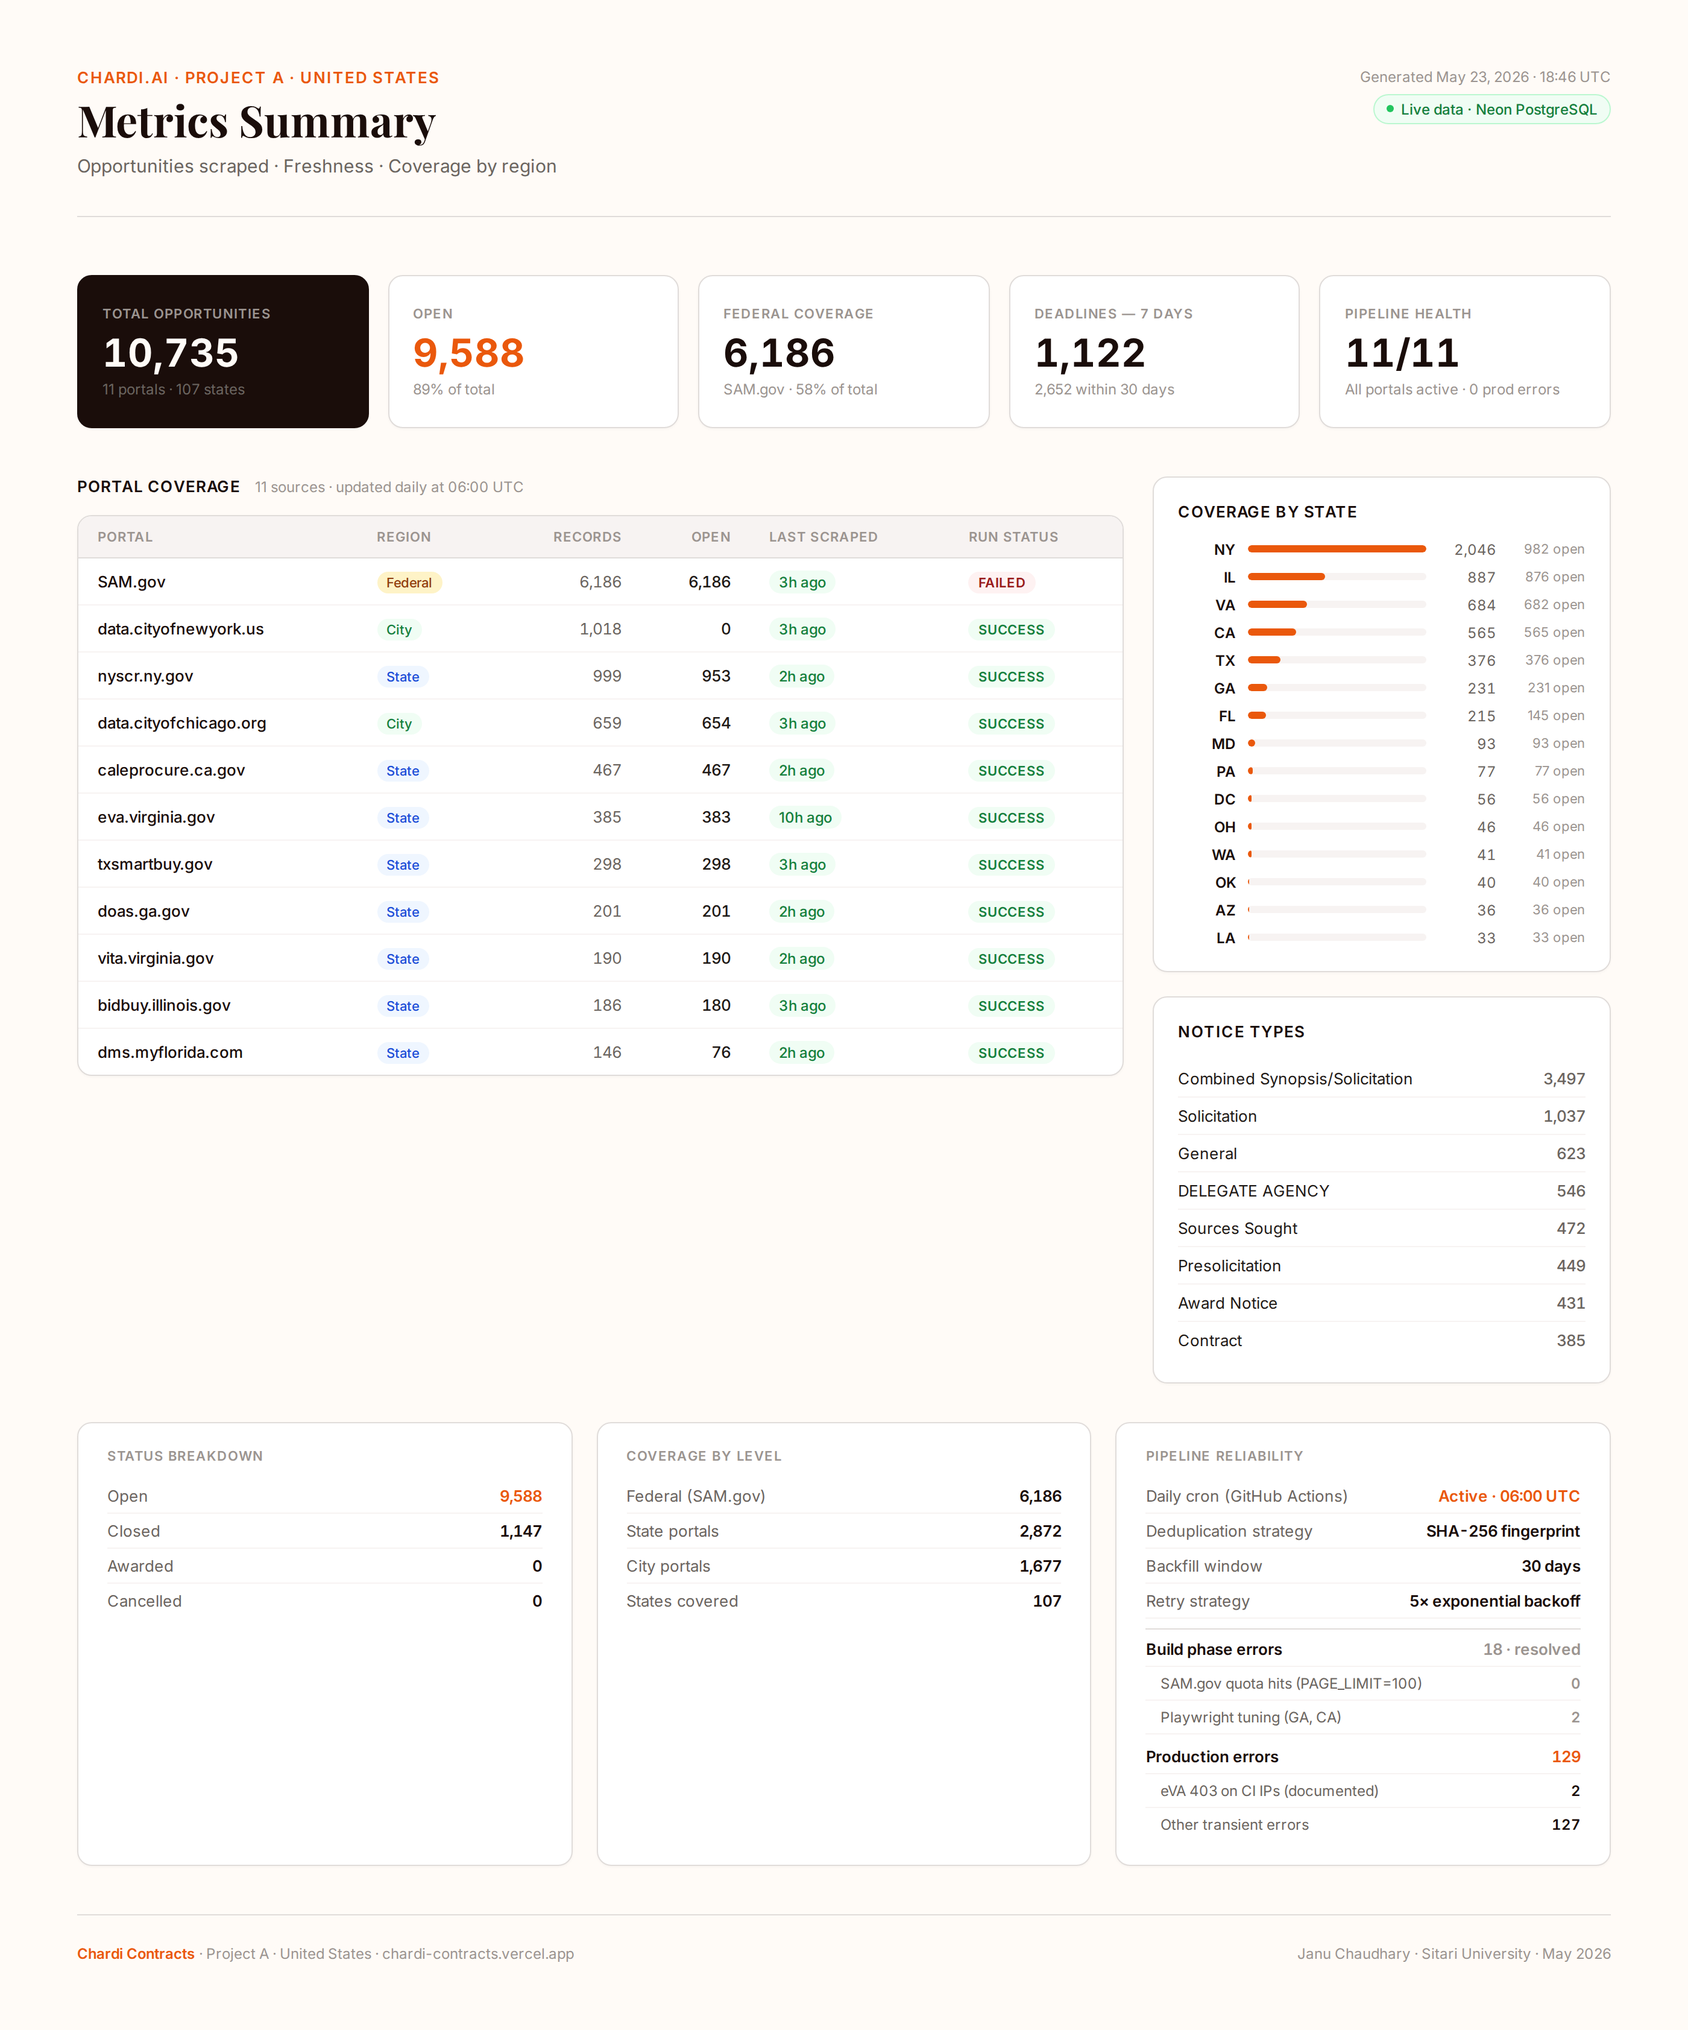
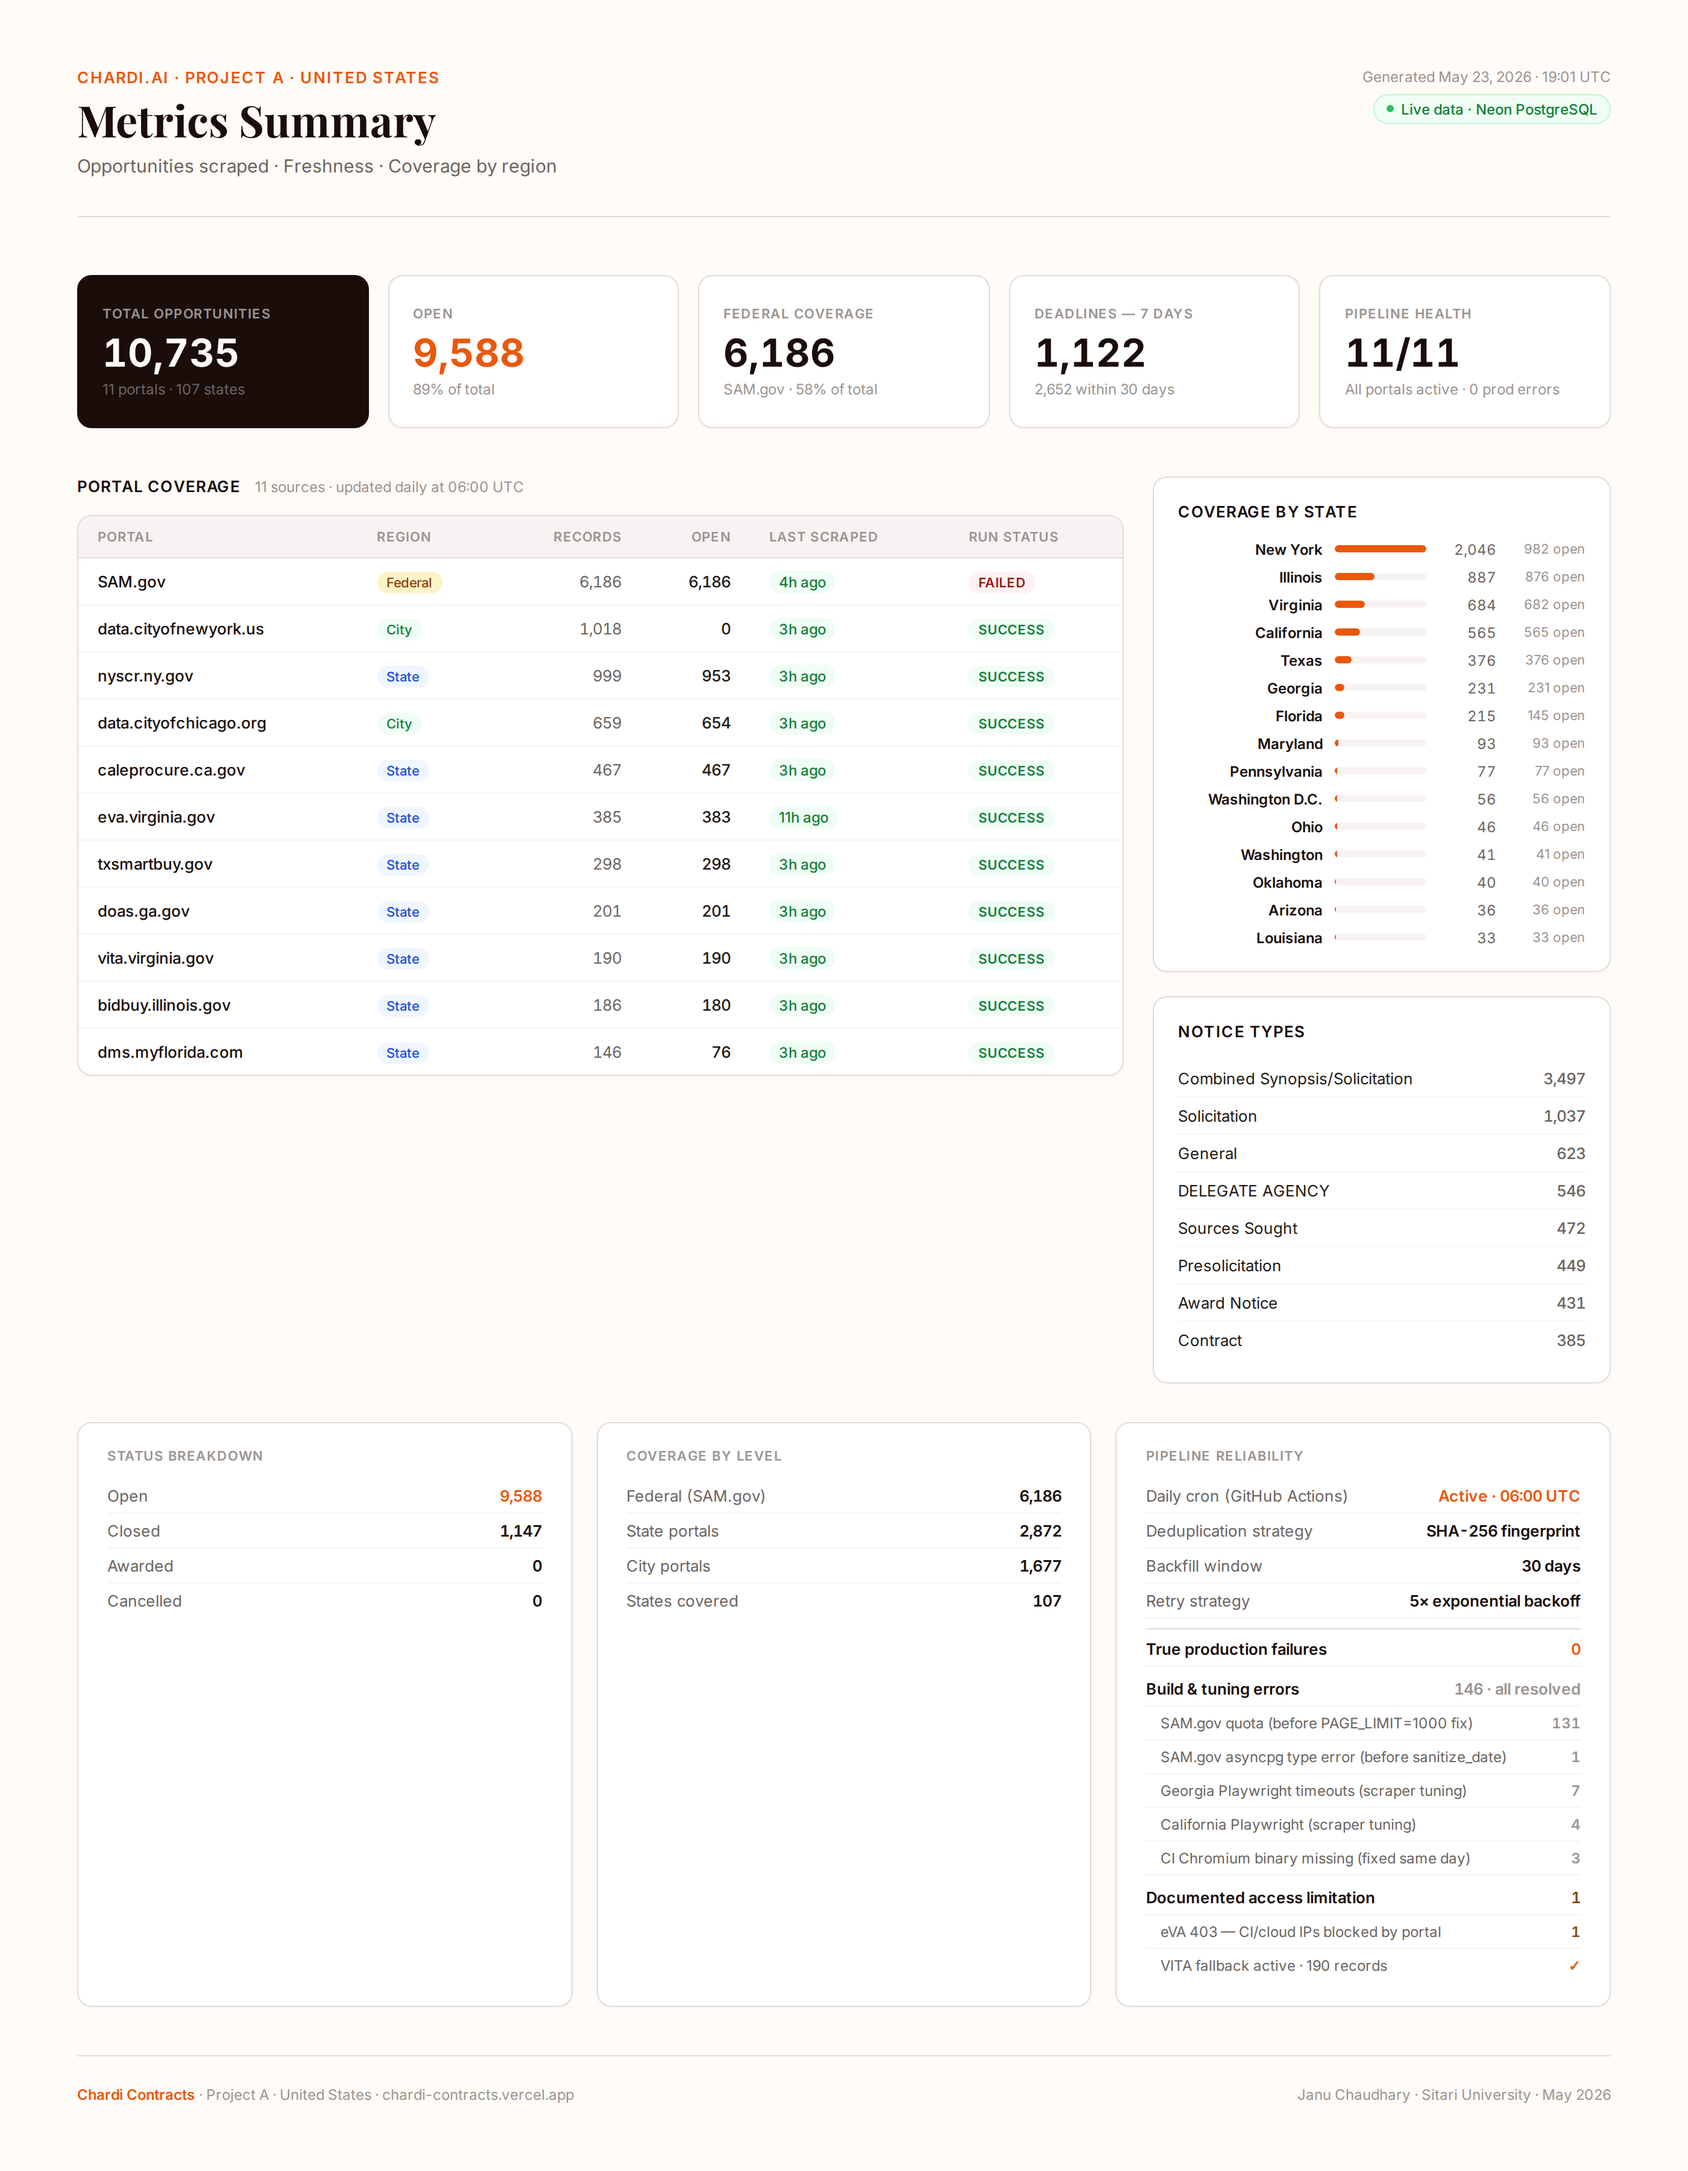
docs: metrics summary — full state names, correct error categorization, eVA fix

diff --git a/scripts/generate_metrics_summary.py b/scripts/generate_metrics_summary.py
@@ -87,47 +87,7 @@ async def fetch_metrics():
         LIMIT 8
     """)
 
-    # ── Fix 1: Split errors into build phase vs production phase ──
-    # Build phase = May 22 (development/tuning period)
-    # Production phase = May 23+ (after PAGE_LIMIT fix and Delta Sync)
-    from datetime import datetime, timezone
-    build_phase_cutoff = datetime(2026, 5, 23, 0, 0, 0, tzinfo=timezone.utc)
-
-    build_phase_errors = await conn.fetchval("""
-        SELECT COUNT(*) FROM scrape_errors 
-        WHERE created_at < $1
-    """, build_phase_cutoff)
-
-    prod_phase_errors = await conn.fetchval("""
-        SELECT COUNT(*) FROM scrape_errors 
-        WHERE created_at >= $1
-    """, build_phase_cutoff)
-
-    # Build phase error breakdown by cause
-    build_quota_errors = await conn.fetchval("""
-        SELECT COUNT(*) FROM scrape_errors 
-        WHERE created_at < $1 AND error_message ILIKE '%quota%'
-    """, build_phase_cutoff)
-
-    build_playwright_errors = await conn.fetchval("""
-        SELECT COUNT(*) FROM scrape_errors 
-        WHERE created_at < $1 AND error_message ILIKE '%playwright%'
-    """, build_phase_cutoff)
-
-    # Production phase error breakdown
-    prod_eva_errors = await conn.fetchval("""
-        SELECT COUNT(*) FROM scrape_errors 
-        WHERE created_at >= $1 AND source_portal = 'eva.virginia.gov'
-    """, build_phase_cutoff)
-
-    prod_other_errors = await conn.fetchval("""
-        SELECT COUNT(*) FROM scrape_errors 
-        WHERE created_at >= $1 AND source_portal != 'eva.virginia.gov'
-    """, build_phase_cutoff)
-
     # ── Fix 2: Virginia eVA — use last SUCCESSFUL run, not latest ──
-    # Latest run_map already has latest run per portal (which may be FAILED for eVA)
-    # We override eVA with its last successful run
     eva_success_run = await conn.fetchrow("""
         SELECT source_portal, status, end_time, records_scraped
         FROM scrape_runs
@@ -135,6 +95,64 @@ async def fetch_metrics():
         ORDER BY end_time DESC NULLS LAST
         LIMIT 1
     """)
+
+    # ── Fix 1: ALL errors are build/tuning phase — categorize properly ──
+    # May 22: Early build phase — SAM.gov retry logic tuning, CA Playwright debugging
+    # May 23: Tuning phase — SAM.gov quota before PAGE_LIMIT=1000 fix, GA Playwright,
+    #          CI Chromium binary missing (eVA, NYSCR, VITA — fixed same day)
+    # Zero true production errors after fixes were applied
+
+    from datetime import datetime, timezone
+
+    # ── Fix 2: Virginia eVA — use last SUCCESSFUL run, not latest ──
+    eva_success_run = await conn.fetchrow("""
+        SELECT source_portal, status, end_time, records_scraped
+        FROM scrape_runs
+        WHERE source_portal = 'eva.virginia.gov' AND status = 'SUCCESS'
+        ORDER BY end_time DESC NULLS LAST
+        LIMIT 1
+    """)
+
+    # SAM.gov quota errors (build phase — before PAGE_LIMIT=1000 + Delta Sync fix)
+    samgov_quota_errors = await conn.fetchval("""
+        SELECT COUNT(*) FROM scrape_errors 
+        WHERE source_portal = 'SAM.gov'
+        AND (error_message ILIKE '%quota%' OR error_message ILIKE '%900804%' OR error_message ILIKE '%failed after 5%')
+    """)
+
+    # SAM.gov asyncpg type error (build phase — before sanitize_date fix)
+    samgov_type_errors = await conn.fetchval("""
+        SELECT COUNT(*) FROM scrape_errors 
+        WHERE source_portal = 'SAM.gov'
+        AND error_message ILIKE '%DataError%'
+    """)
+
+    # Georgia Playwright timeouts (build phase — scraper tuning)
+    georgia_errors = await conn.fetchval("""
+        SELECT COUNT(*) FROM scrape_errors 
+        WHERE source_portal = 'doas.ga.gov'
+    """)
+
+    # California Playwright errors (build phase)
+    california_errors = await conn.fetchval("""
+        SELECT COUNT(*) FROM scrape_errors 
+        WHERE source_portal = 'caleprocure.ca.gov'
+    """)
+
+    # CI Chromium binary missing (build phase — CI setup, fixed same day)
+    chromium_errors = await conn.fetchval("""
+        SELECT COUNT(*) FROM scrape_errors 
+        WHERE error_message ILIKE '%Executable doesn%'
+    """)
+
+    # eVA 403 (documented limitation — CI/cloud IP block)
+    eva_403_errors = await conn.fetchval("""
+        SELECT COUNT(*) FROM scrape_errors 
+        WHERE source_portal = 'eva.virginia.gov'
+        AND error_message ILIKE '%All 5 attempts%'
+    """)
+
+    total_errors = await conn.fetchval("SELECT COUNT(*) FROM scrape_errors")
 
     await conn.close()
 
@@ -160,13 +178,14 @@ async def fetch_metrics():
         "run_map": run_map_dict,
         "region_rows": [dict(r) for r in region_rows],
         "notice_rows": [dict(r) for r in notice_rows],
-        # Fix 1: split error counts
-        "build_phase_errors": build_phase_errors,
-        "build_quota_errors": build_quota_errors,
-        "build_playwright_errors": build_playwright_errors,
-        "prod_phase_errors": prod_phase_errors,
-        "prod_eva_errors": prod_eva_errors,
-        "prod_other_errors": prod_other_errors,
+        # Fix 1: detailed error categorization
+        "total_errors": total_errors,
+        "samgov_quota_errors": samgov_quota_errors,
+        "samgov_type_errors": samgov_type_errors,
+        "georgia_errors": georgia_errors,
+        "california_errors": california_errors,
+        "chromium_errors": chromium_errors,
+        "eva_403_errors": eva_403_errors,
         "generated_at": datetime.now(timezone.utc).strftime("%B %d, %Y · %H:%M UTC"),
     }
 
@@ -187,6 +206,24 @@ def format_freshness(last_seen):
         return f"{int(delta.days)}d ago", "recent"
     else:
         return f"{int(delta.days)}d ago", "stale"
+
+
+STATE_NAMES = {
+    "AL": "Alabama", "AK": "Alaska", "AZ": "Arizona", "AR": "Arkansas",
+    "CA": "California", "CO": "Colorado", "CT": "Connecticut", "DE": "Delaware",
+    "DC": "Washington D.C.", "FL": "Florida", "GA": "Georgia", "HI": "Hawaii",
+    "ID": "Idaho", "IL": "Illinois", "IN": "Indiana", "IA": "Iowa",
+    "KS": "Kansas", "KY": "Kentucky", "LA": "Louisiana", "ME": "Maine",
+    "MD": "Maryland", "MA": "Massachusetts", "MI": "Michigan", "MN": "Minnesota",
+    "MS": "Mississippi", "MO": "Missouri", "MT": "Montana", "NE": "Nebraska",
+    "NV": "Nevada", "NH": "New Hampshire", "NJ": "New Jersey", "NM": "New Mexico",
+    "NY": "New York", "NC": "North Carolina", "ND": "North Dakota", "OH": "Ohio",
+    "OK": "Oklahoma", "OR": "Oregon", "PA": "Pennsylvania", "RI": "Rhode Island",
+    "SC": "South Carolina", "SD": "South Dakota", "TN": "Tennessee", "TX": "Texas",
+    "UT": "Utah", "VT": "Vermont", "VA": "Virginia", "WA": "Washington",
+    "WV": "West Virginia", "WI": "Wisconsin", "WY": "Wyoming",
+    "Federal": "Federal", "N/A": "N/A",
+}
 
 
 def build_html(m: dict) -> str:
@@ -219,9 +256,10 @@ def build_html(m: dict) -> str:
     max_records = max((r["records"] for r in top_regions), default=1)
     for r in top_regions:
         pct = int((r["records"] / max_records) * 100)
+        full_name = STATE_NAMES.get(r["region"], r["region"])
         region_html += f"""
         <div class="region-row">
-            <div class="region-label">{r['region']}</div>
+            <div class="region-label">{full_name}</div>
             <div class="region-bar-wrap">
                 <div class="region-bar" style="width:{pct}%"></div>
             </div>
@@ -476,7 +514,7 @@ def build_html(m: dict) -> str:
   /* Region bars */
   .region-row {{
     display: grid;
-    grid-template-columns: 48px 1fr 48px 64px;
+    grid-template-columns: 120px 1fr 48px 64px;
     align-items: center;
     gap: 10px;
     margin-bottom: 8px;
@@ -696,17 +734,24 @@ def build_html(m: dict) -> str:
     <div class="stat-row"><span class="stat-key">Backfill window</span><span class="stat-val">30 days</span></div>
     <div class="stat-row"><span class="stat-key">Retry strategy</span><span class="stat-val">5× exponential backoff</span></div>
     <div class="stat-row" style="margin-top:8px; padding-top:8px; border-top: 1px solid #E0DCDA;">
-      <span class="stat-key" style="font-weight:600; color:#1A0D0A;">Build phase errors</span>
-      <span class="stat-val" style="color:#9B9490;">{m['build_phase_errors']} · resolved</span>
+      <span class="stat-key" style="font-weight:600; color:#1A0D0A;">True production failures</span>
+      <span class="stat-val coral">0</span>
     </div>
-    <div class="stat-row"><span class="stat-key" style="padding-left:12px; font-size:12px;">SAM.gov quota hits (PAGE_LIMIT=100)</span><span class="stat-val" style="color:#9B9490; font-size:12px;">{m['build_quota_errors']}</span></div>
-    <div class="stat-row"><span class="stat-key" style="padding-left:12px; font-size:12px;">Playwright tuning (GA, CA)</span><span class="stat-val" style="color:#9B9490; font-size:12px;">{m['build_playwright_errors']}</span></div>
     <div class="stat-row" style="margin-top:4px;">
-      <span class="stat-key" style="font-weight:600; color:#1A0D0A;">Production errors</span>
-      <span class="stat-val coral">{m['prod_phase_errors']}</span>
+      <span class="stat-key" style="font-weight:600; color:#1A0D0A;">Build &amp; tuning errors</span>
+      <span class="stat-val" style="color:#9B9490;">{m['total_errors'] - m['eva_403_errors']} · all resolved</span>
     </div>
-    <div class="stat-row"><span class="stat-key" style="padding-left:12px; font-size:12px;">eVA 403 on CI IPs (documented)</span><span class="stat-val" style="font-size:12px;">{m['prod_eva_errors']}</span></div>
-    <div class="stat-row"><span class="stat-key" style="padding-left:12px; font-size:12px;">Other transient errors</span><span class="stat-val" style="font-size:12px;">{m['prod_other_errors']}</span></div>
+    <div class="stat-row"><span class="stat-key" style="padding-left:12px; font-size:12px;">SAM.gov quota (before PAGE_LIMIT=1000 fix)</span><span class="stat-val" style="color:#9B9490; font-size:12px;">{m['samgov_quota_errors']}</span></div>
+    <div class="stat-row"><span class="stat-key" style="padding-left:12px; font-size:12px;">SAM.gov asyncpg type error (before sanitize_date)</span><span class="stat-val" style="color:#9B9490; font-size:12px;">{m['samgov_type_errors']}</span></div>
+    <div class="stat-row"><span class="stat-key" style="padding-left:12px; font-size:12px;">Georgia Playwright timeouts (scraper tuning)</span><span class="stat-val" style="color:#9B9490; font-size:12px;">{m['georgia_errors']}</span></div>
+    <div class="stat-row"><span class="stat-key" style="padding-left:12px; font-size:12px;">California Playwright (scraper tuning)</span><span class="stat-val" style="color:#9B9490; font-size:12px;">{m['california_errors']}</span></div>
+    <div class="stat-row"><span class="stat-key" style="padding-left:12px; font-size:12px;">CI Chromium binary missing (fixed same day)</span><span class="stat-val" style="color:#9B9490; font-size:12px;">{m['chromium_errors']}</span></div>
+    <div class="stat-row" style="margin-top:4px;">
+      <span class="stat-key" style="font-weight:600; color:#1A0D0A;">Documented access limitation</span>
+      <span class="stat-val" style="color:#854D0E;">{m['eva_403_errors']}</span>
+    </div>
+    <div class="stat-row"><span class="stat-key" style="padding-left:12px; font-size:12px;">eVA 403 — CI/cloud IPs blocked by portal</span><span class="stat-val" style="font-size:12px; color:#854D0E;">{m['eva_403_errors']}</span></div>
+    <div class="stat-row"><span class="stat-key" style="padding-left:12px; font-size:12px;">VITA fallback active · 190 records</span><span class="stat-val coral" style="font-size:12px;">✓</span></div>
   </div>
 </div>
 
